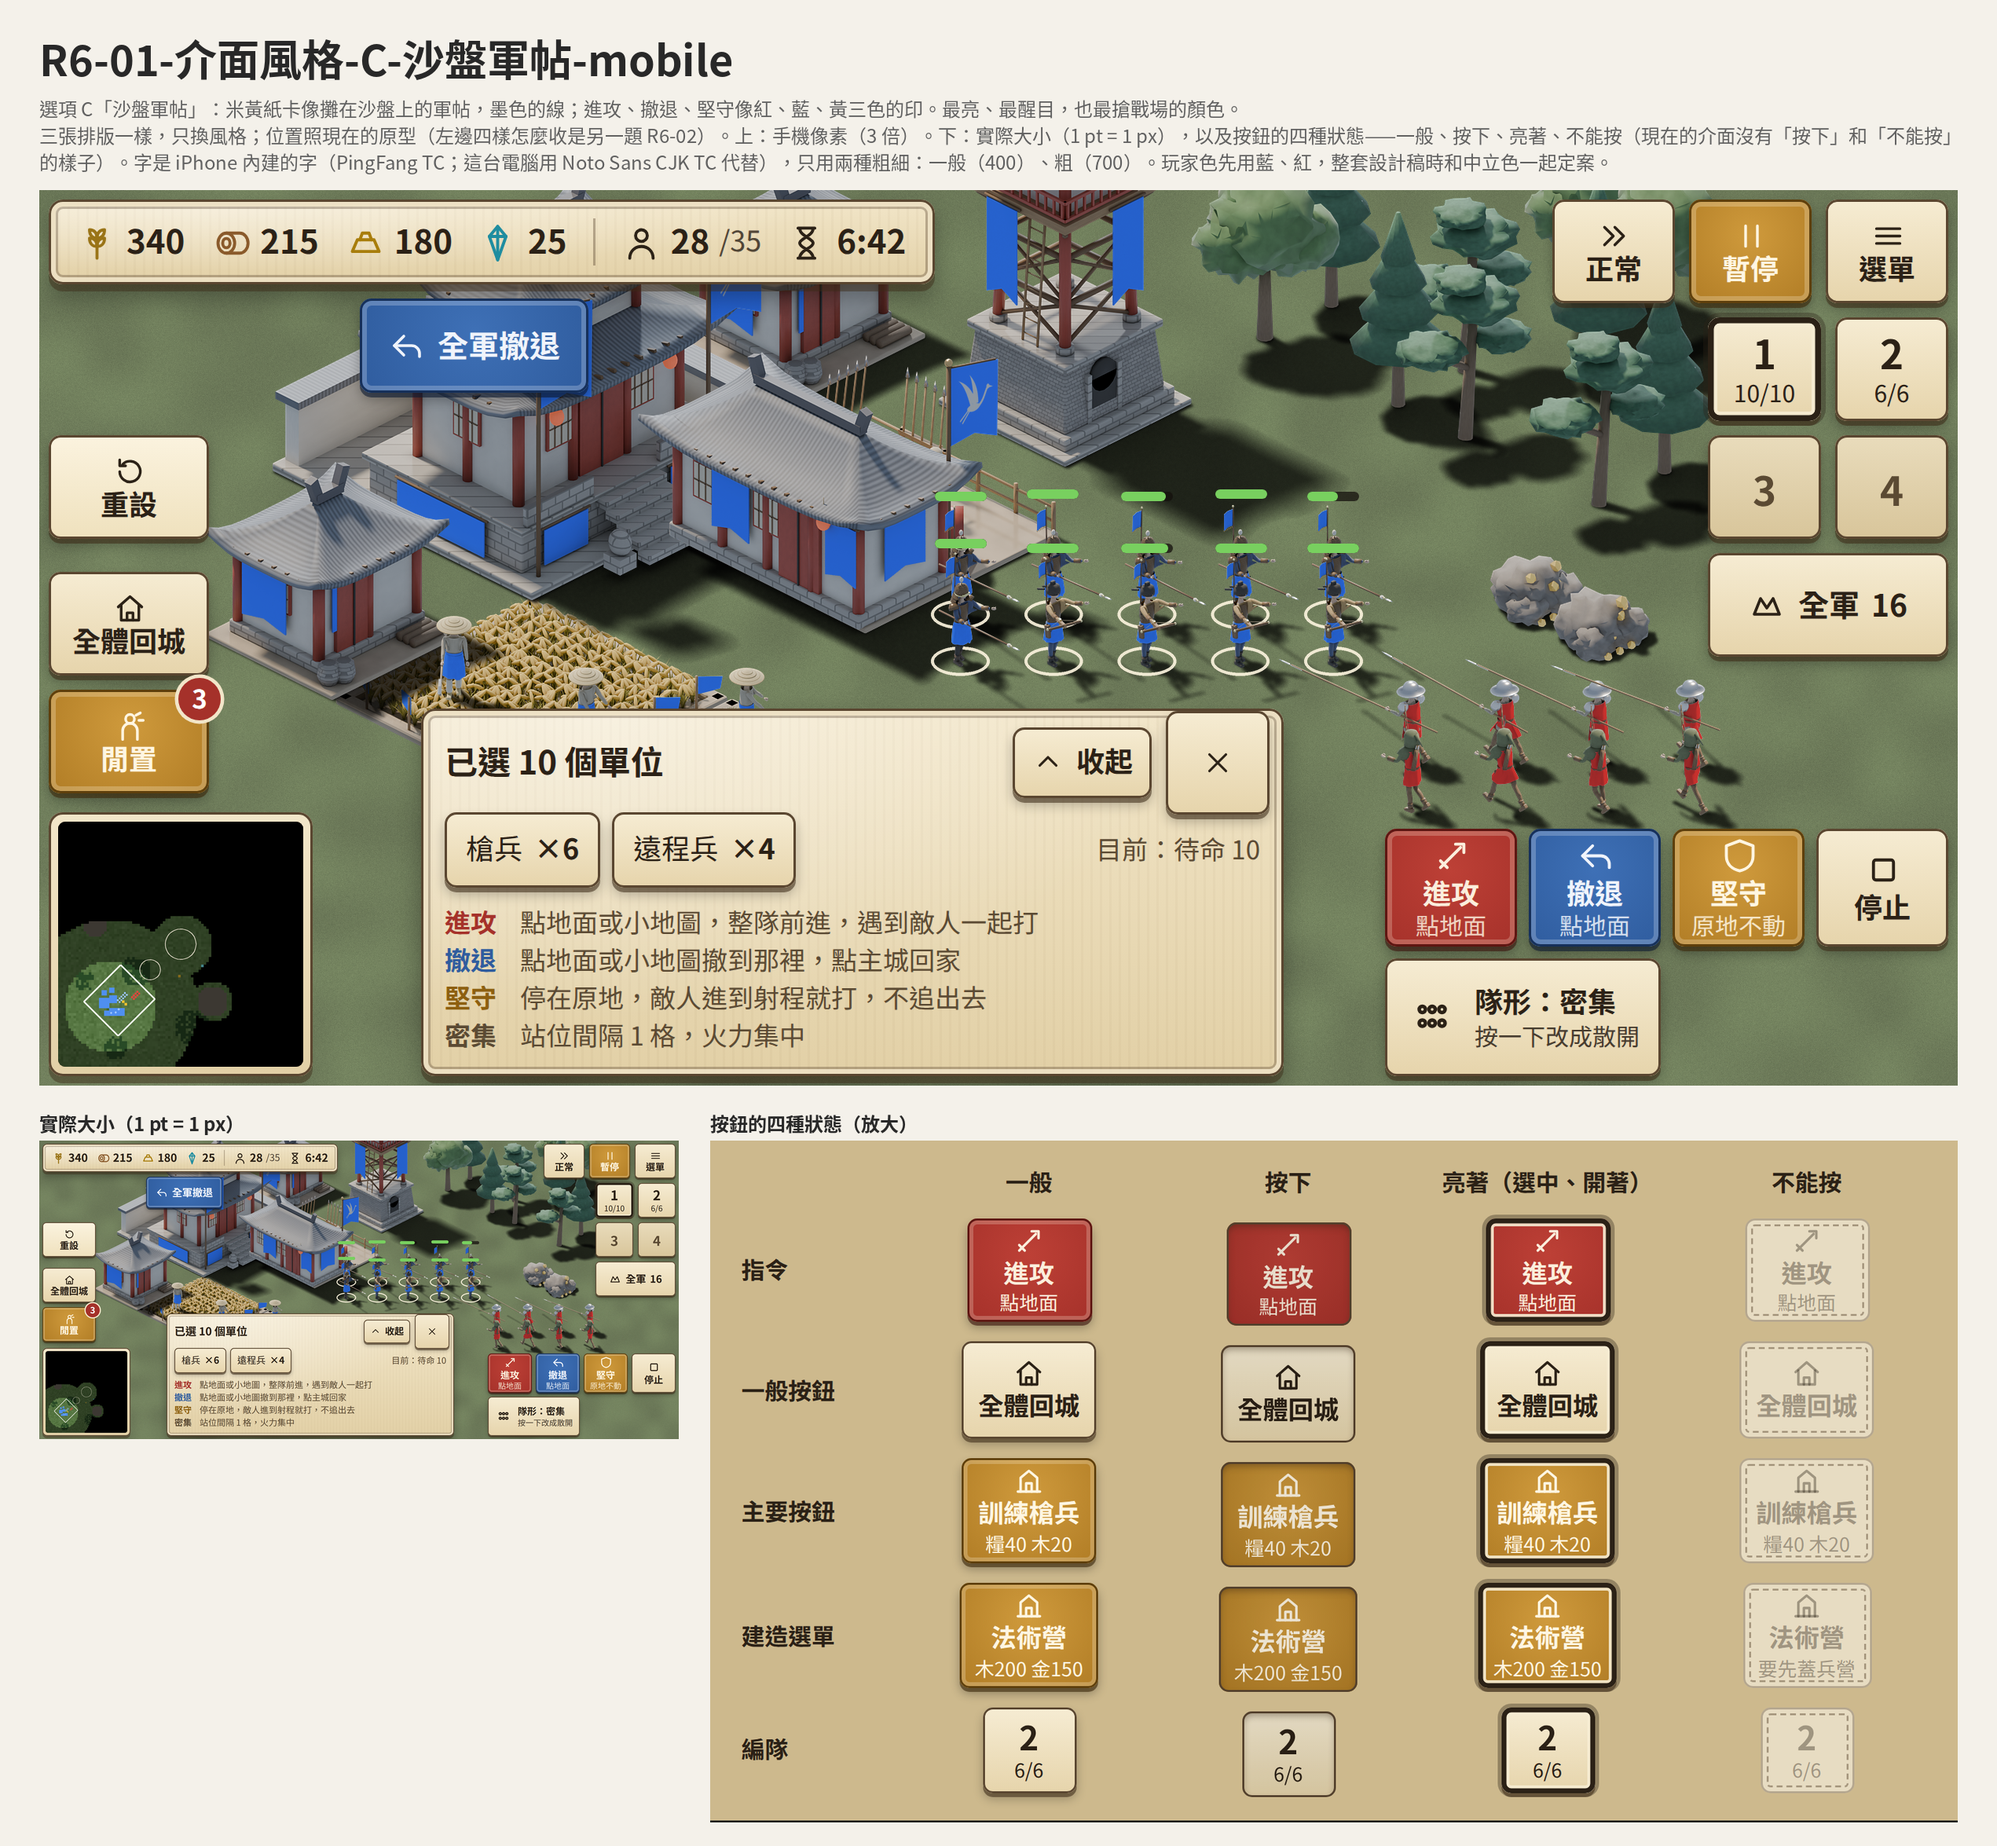
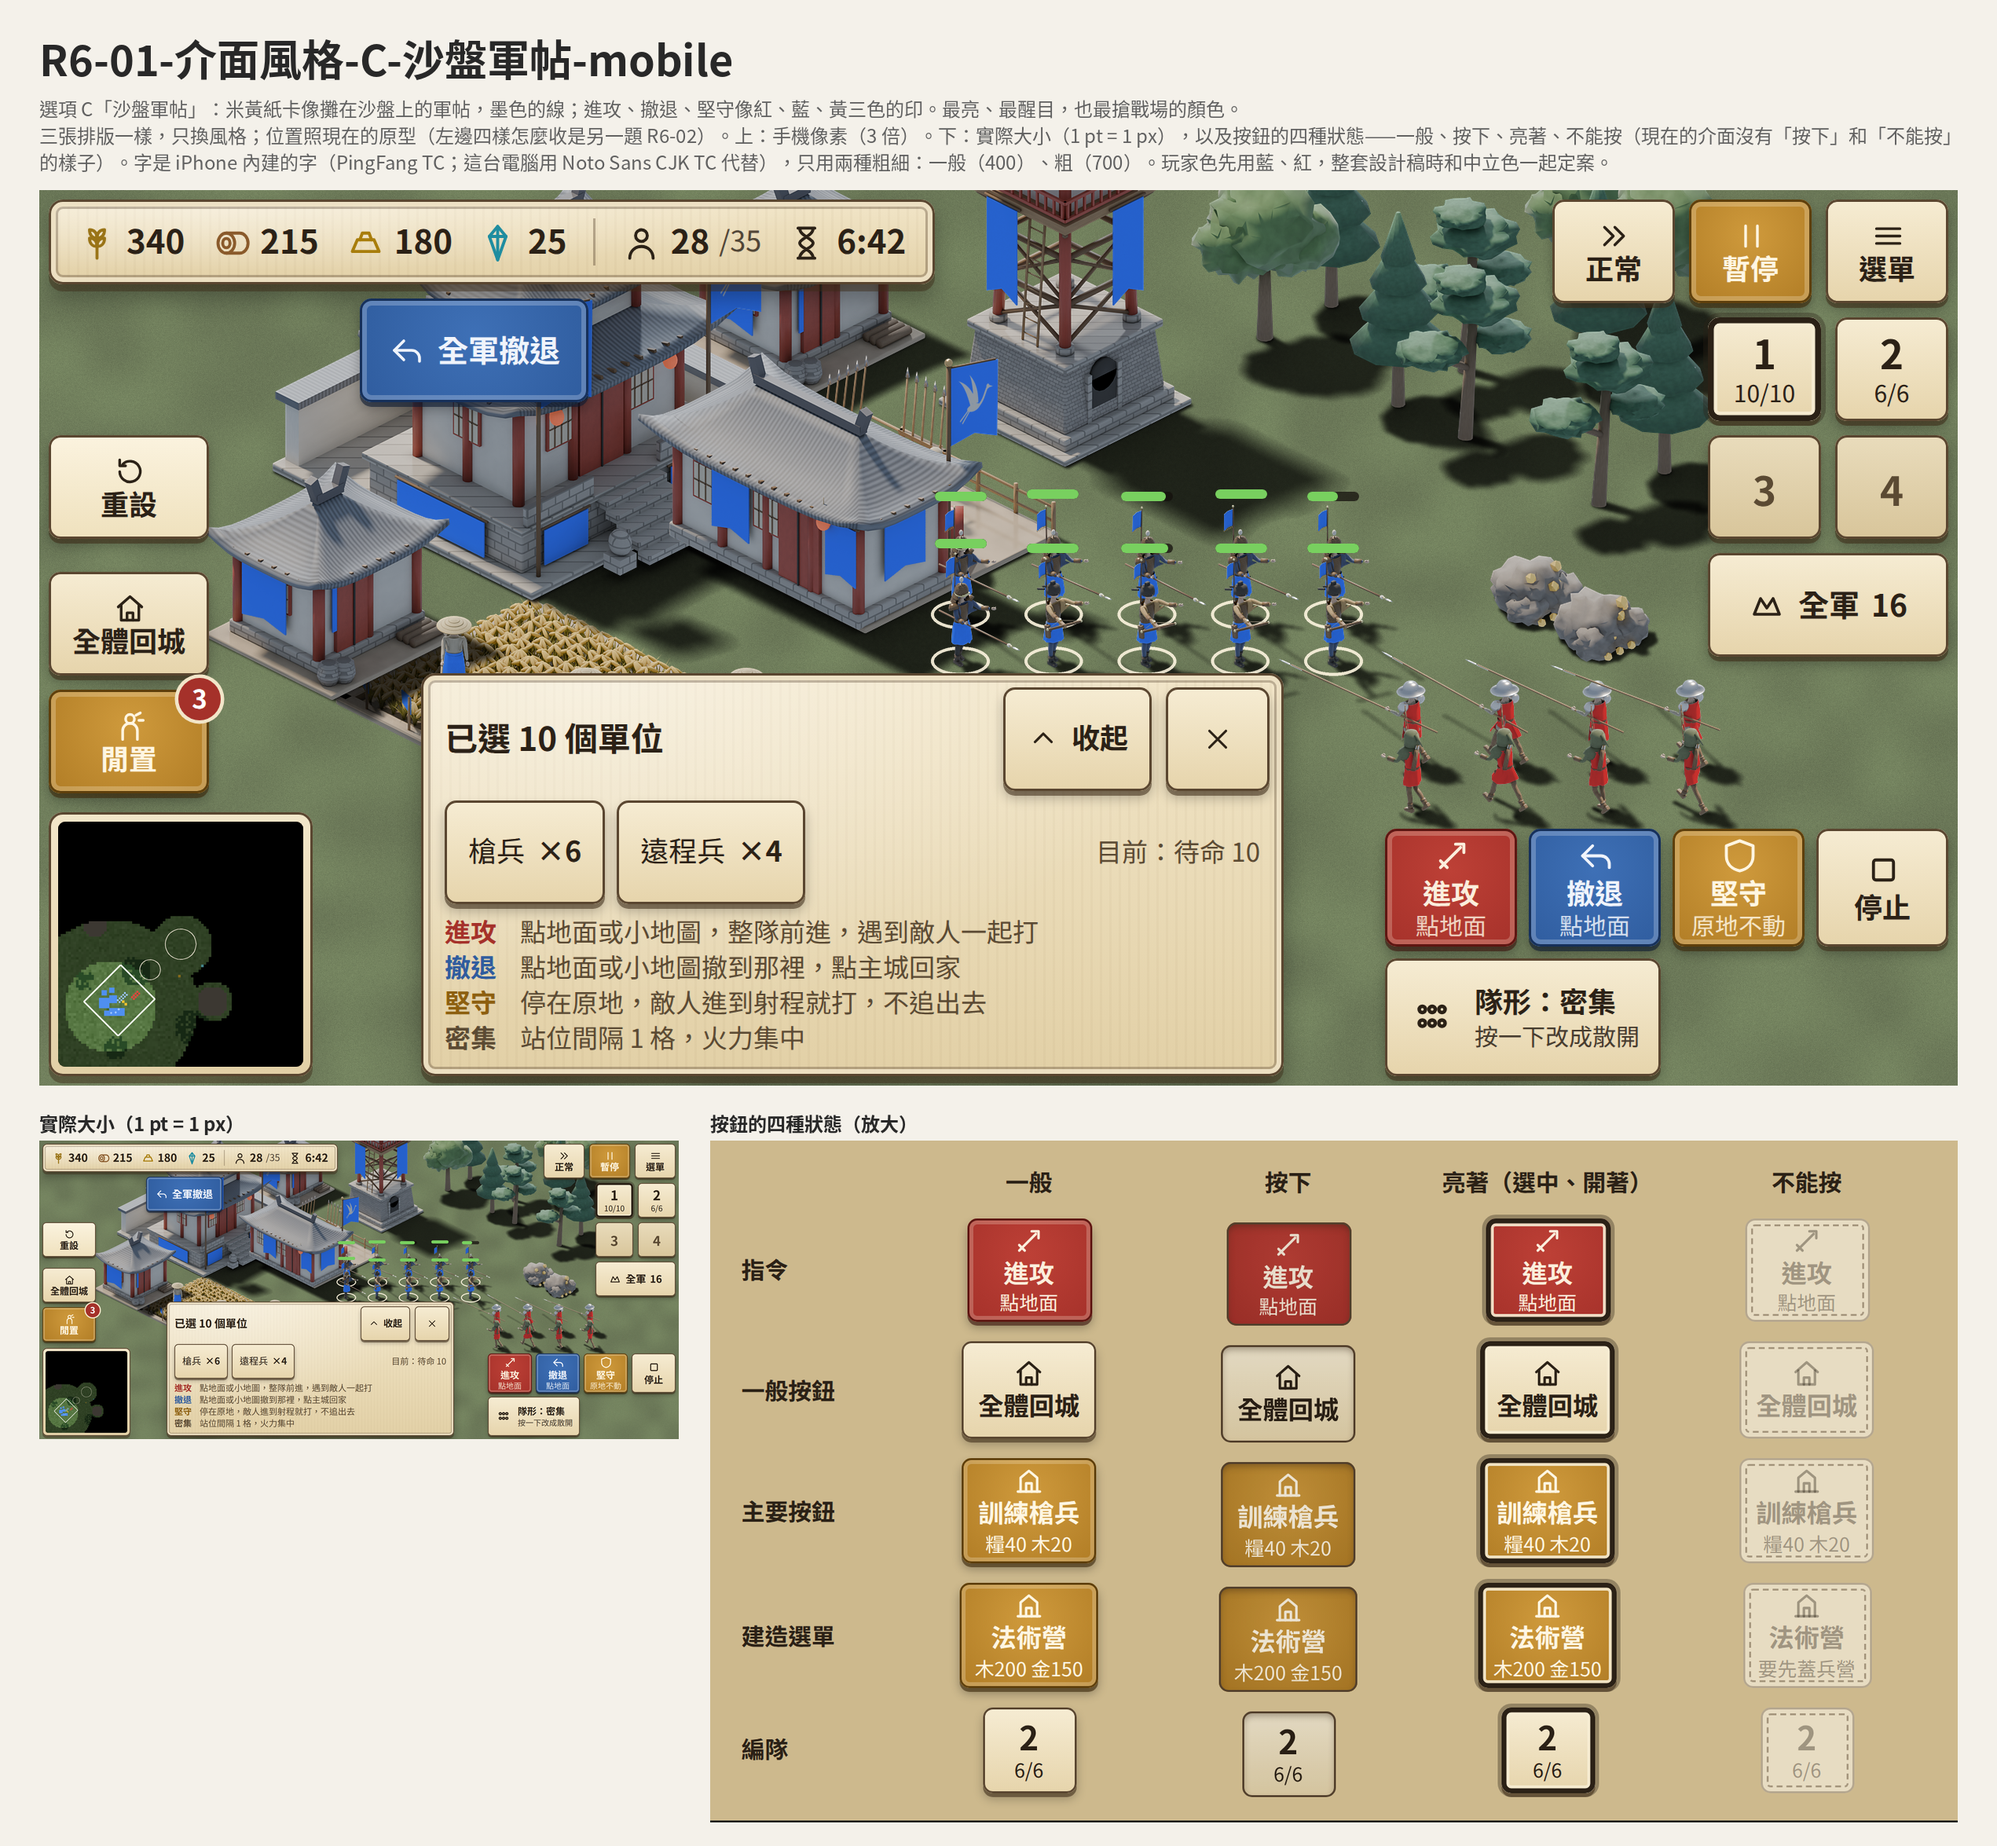
R6 B.2：可以點的東西全部至少 44 pt（收起、兵種鈕、全軍撤退、資源列的閒置），拍照時自動檢查

Changed region(s): [[0.1865, 0.3417, 0.6526, 0.5902], [0.0622, 0.6834, 0.2175, 0.7766], [0.1865, 0.1553, 0.3108, 0.2485]]

diff --git a/design/r6/mock/themes.css b/design/r6/mock/themes.css
@@ -23,7 +23,8 @@ b, strong, .lb, .n, .t { font-weight: 700; }
 .res .r small { font-size: 12px; opacity: .8; }
 .res .sep { width: 1px; align-self: stretch; margin: 8px 0; }
 .res .ic { width: 17px; height: 17px; }
-.res .idle-chip { min-height: 30px; min-width: 0; padding: 0 8px; gap: 4px; }
+.res .idle-chip { min-height: 44px; padding: 0 10px; gap: 4px; }
+[data-left="moved"] .res { height: 44px; padding-right: 0; }
 
 .b { position: relative; display: inline-flex; flex-direction: row; align-items: center; justify-content: center; gap: 5px;
      min-width: 44px; min-height: 44px; padding: 0 10px; border: 0; font: inherit; font-size: 13px; cursor: pointer; }
@@ -37,7 +38,7 @@ b, strong, .lb, .n, .t { font-weight: 700; }
 .topright .b .sub { display: none; }
 
 .retreat-all { left: 136px; top: 46px; }
-.retreat-all .b { min-height: 40px; padding: 0 12px; font-size: 13px; }
+.retreat-all .b { min-height: 44px; padding: 0 12px; font-size: 13px; }
 
 .groups { right: 4px; top: 54px; display: grid; grid-template-columns: 48px 48px; gap: 6px; }
 .grp { flex-direction: column; gap: 0; padding: 0; width: 48px; }
@@ -60,16 +61,16 @@ b, strong, .lb, .n, .t { font-weight: 700; }
 .minimap[data-shape="diamond"] .mm-in { clip-path: none; }
 .minimap[data-shape="diamond"]::before, .minimap[data-shape="diamond"]::after { display: none; }
 
-.sel { left: 162px; bottom: 4px; width: 366px; padding: 8px 10px 9px; }
-.sel-head { display: flex; align-items: center; gap: 6px; height: 30px; }
+.sel { left: 162px; bottom: 4px; width: 366px; padding: 6px 10px 8px; }
+.sel-head { display: flex; align-items: center; gap: 6px; height: 44px; }
 .sel-head .t { font-size: 14px; flex: 1; }
-.sel-head .b { min-height: 30px; min-width: 30px; padding: 0 8px; font-size: 12px; }
+.sel-head .b { min-height: 44px; min-width: 44px; padding: 0 10px; font-size: 12px; }
 .sel-head .b .ic { width: 14px; height: 14px; }
-.sel-head .x { width: 44px; min-height: 44px; margin: -7px -4px -7px 0; }
-.chips { display: flex; align-items: center; gap: 5px; margin-top: 6px; }
-.chip { min-height: 32px; padding: 0 9px; font-size: 12px; }
+.sel-head .x { width: 44px; min-height: 44px; margin-right: -4px; }
+.chips { display: flex; align-items: center; gap: 5px; margin-top: 4px; }
+.chip { min-height: 44px; padding: 0 10px; font-size: 12px; }
 .chips .now { margin-left: auto; font-size: 11px; }
-.help { list-style: none; margin: 7px 0 0; padding: 0; font-size: 11px; line-height: 16px; }
+.help { list-style: none; margin: 5px 0 0; padding: 0; font-size: 11px; line-height: 15px; }
 .help li { display: flex; gap: 6px; white-space: nowrap; }
 .help .k { font-style: normal; font-weight: 700; min-width: 26px; }
 
@@ -144,7 +145,6 @@ b, strong, .lb, .n, .t { font-weight: 700; }
 [data-theme="a"] .help .k.atk { color: #ff9a86; } [data-theme="a"] .help .k.ret { color: #9cc2ff; } [data-theme="a"] .help .k.hold { color: #f2cf73; }
 [data-theme="a"] .help { color: var(--ink2); }
 [data-theme="a"] .chips .now { color: var(--ink2); }
-[data-theme="a"] .chip { min-height: 30px; }
 [data-theme="a"] .minimap { border-radius: 9px; background: linear-gradient(180deg, #4e3624, #2c1e14); box-shadow: inset 0 0 0 1.5px var(--rim), 0 3px 8px rgba(0, 0, 0, .45); }
 [data-theme="a"] .minimap .mm-in { border-radius: 5px; box-shadow: inset 0 0 0 1px rgba(0, 0, 0, .8); }
 [data-theme="a"] .hp i { background: #7fd062; }
